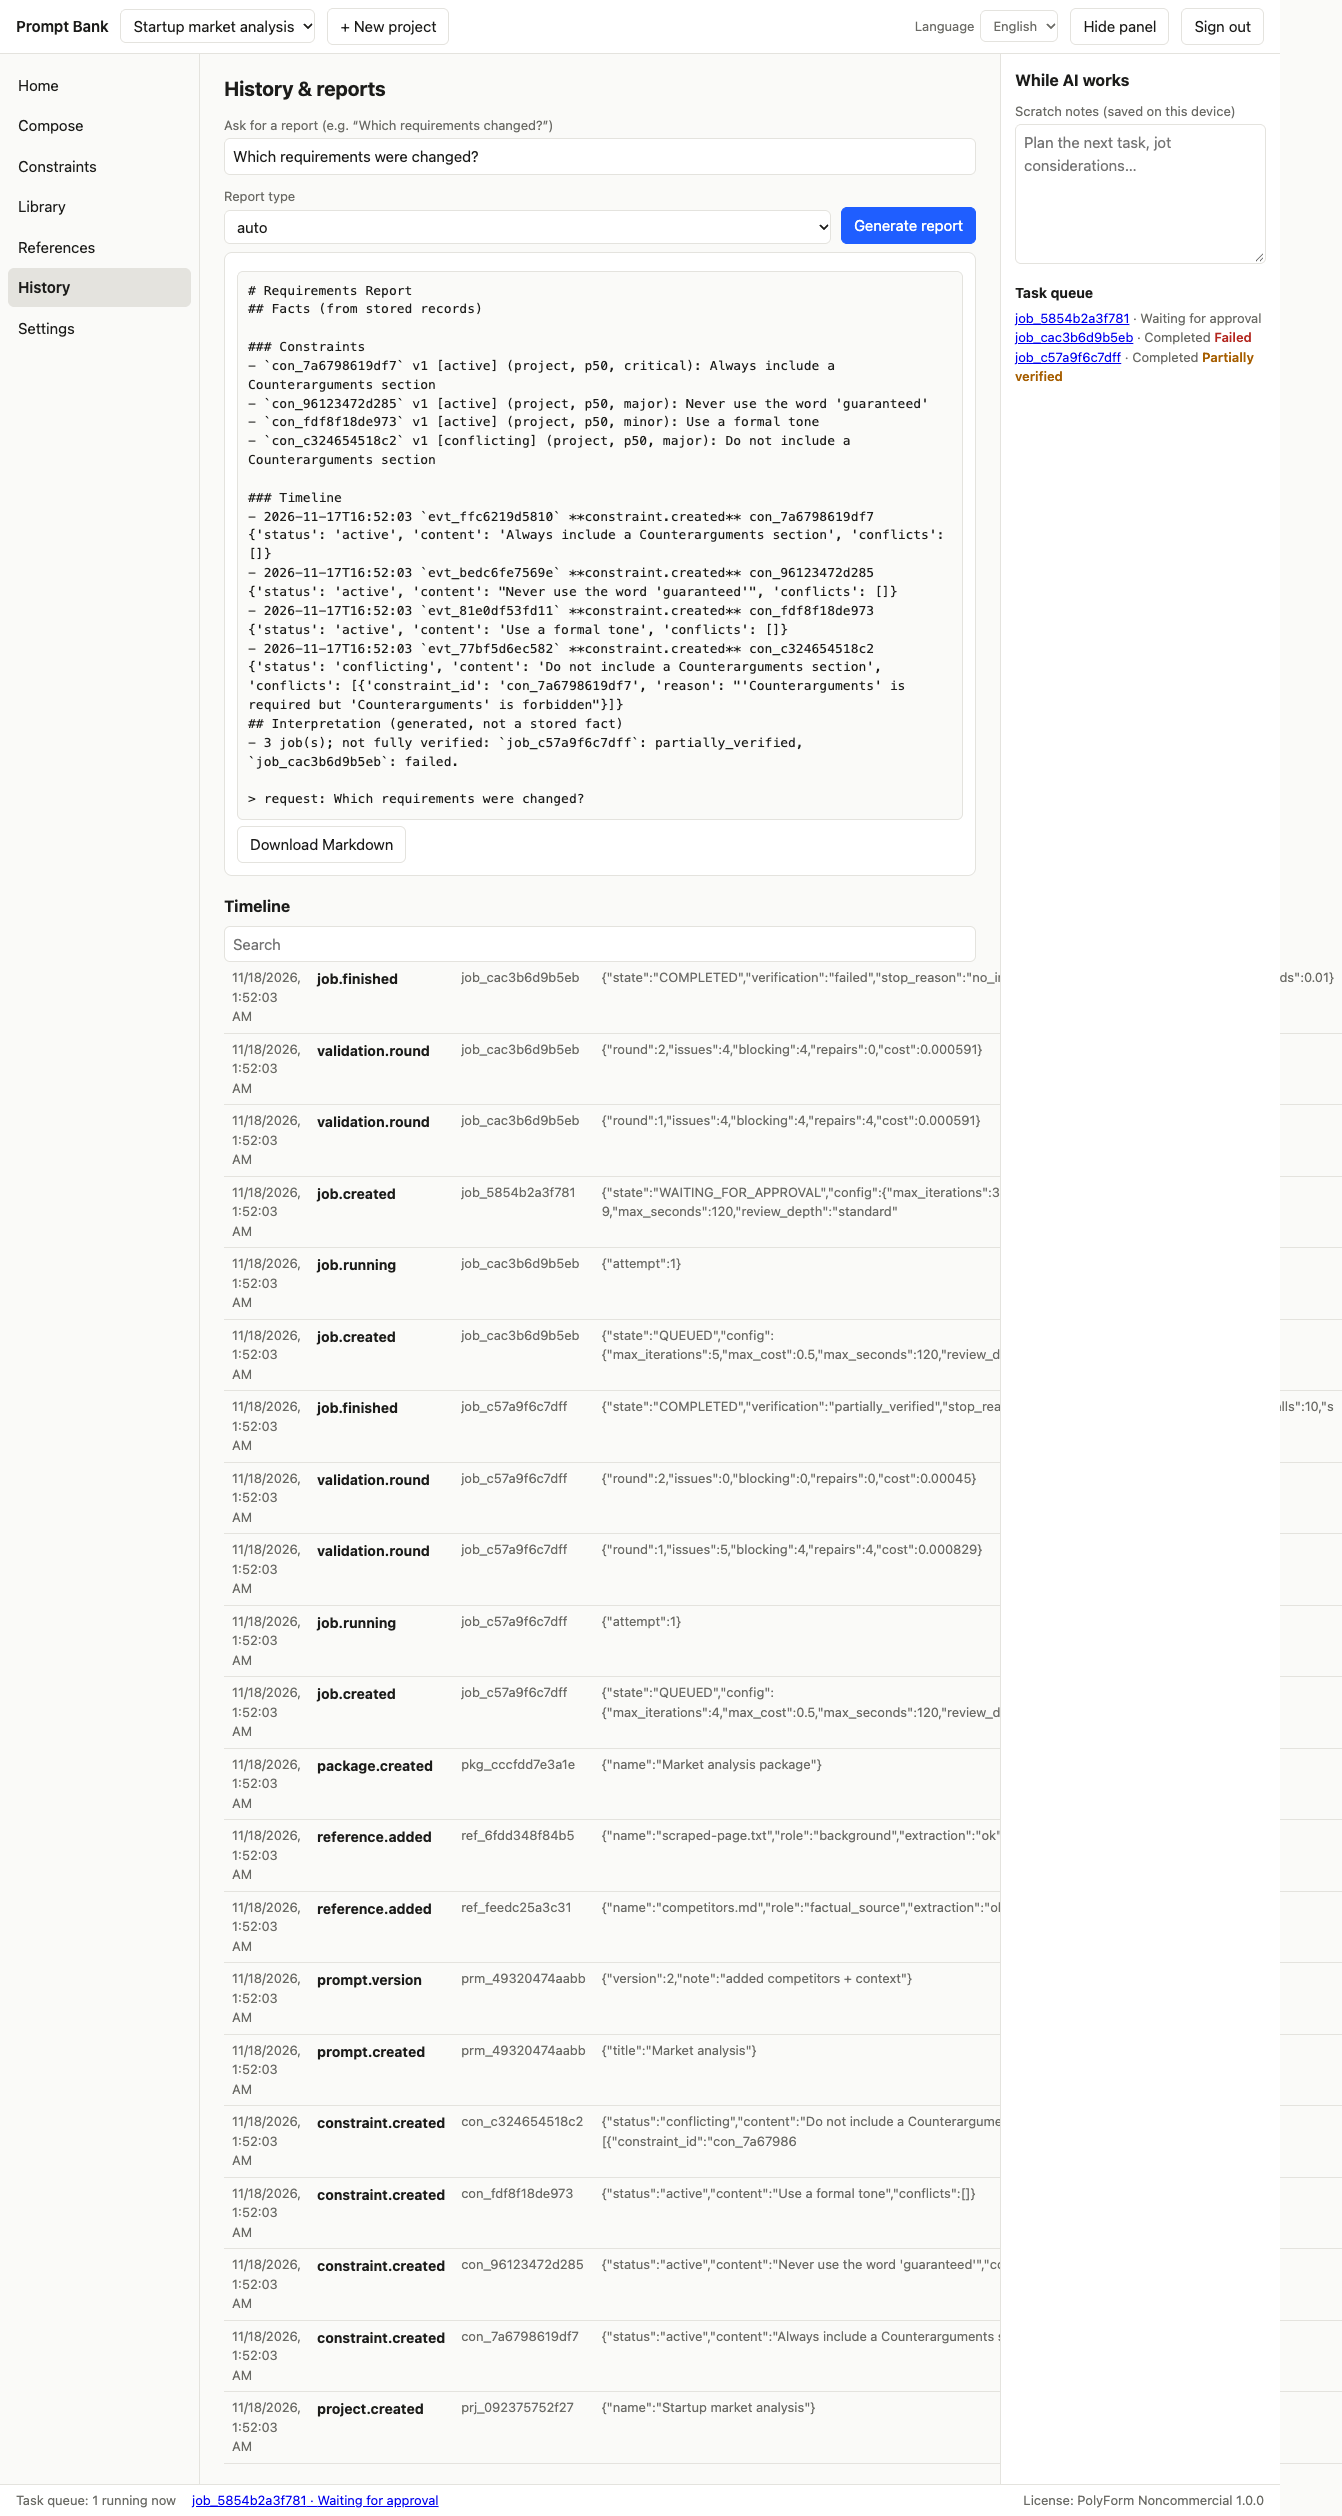
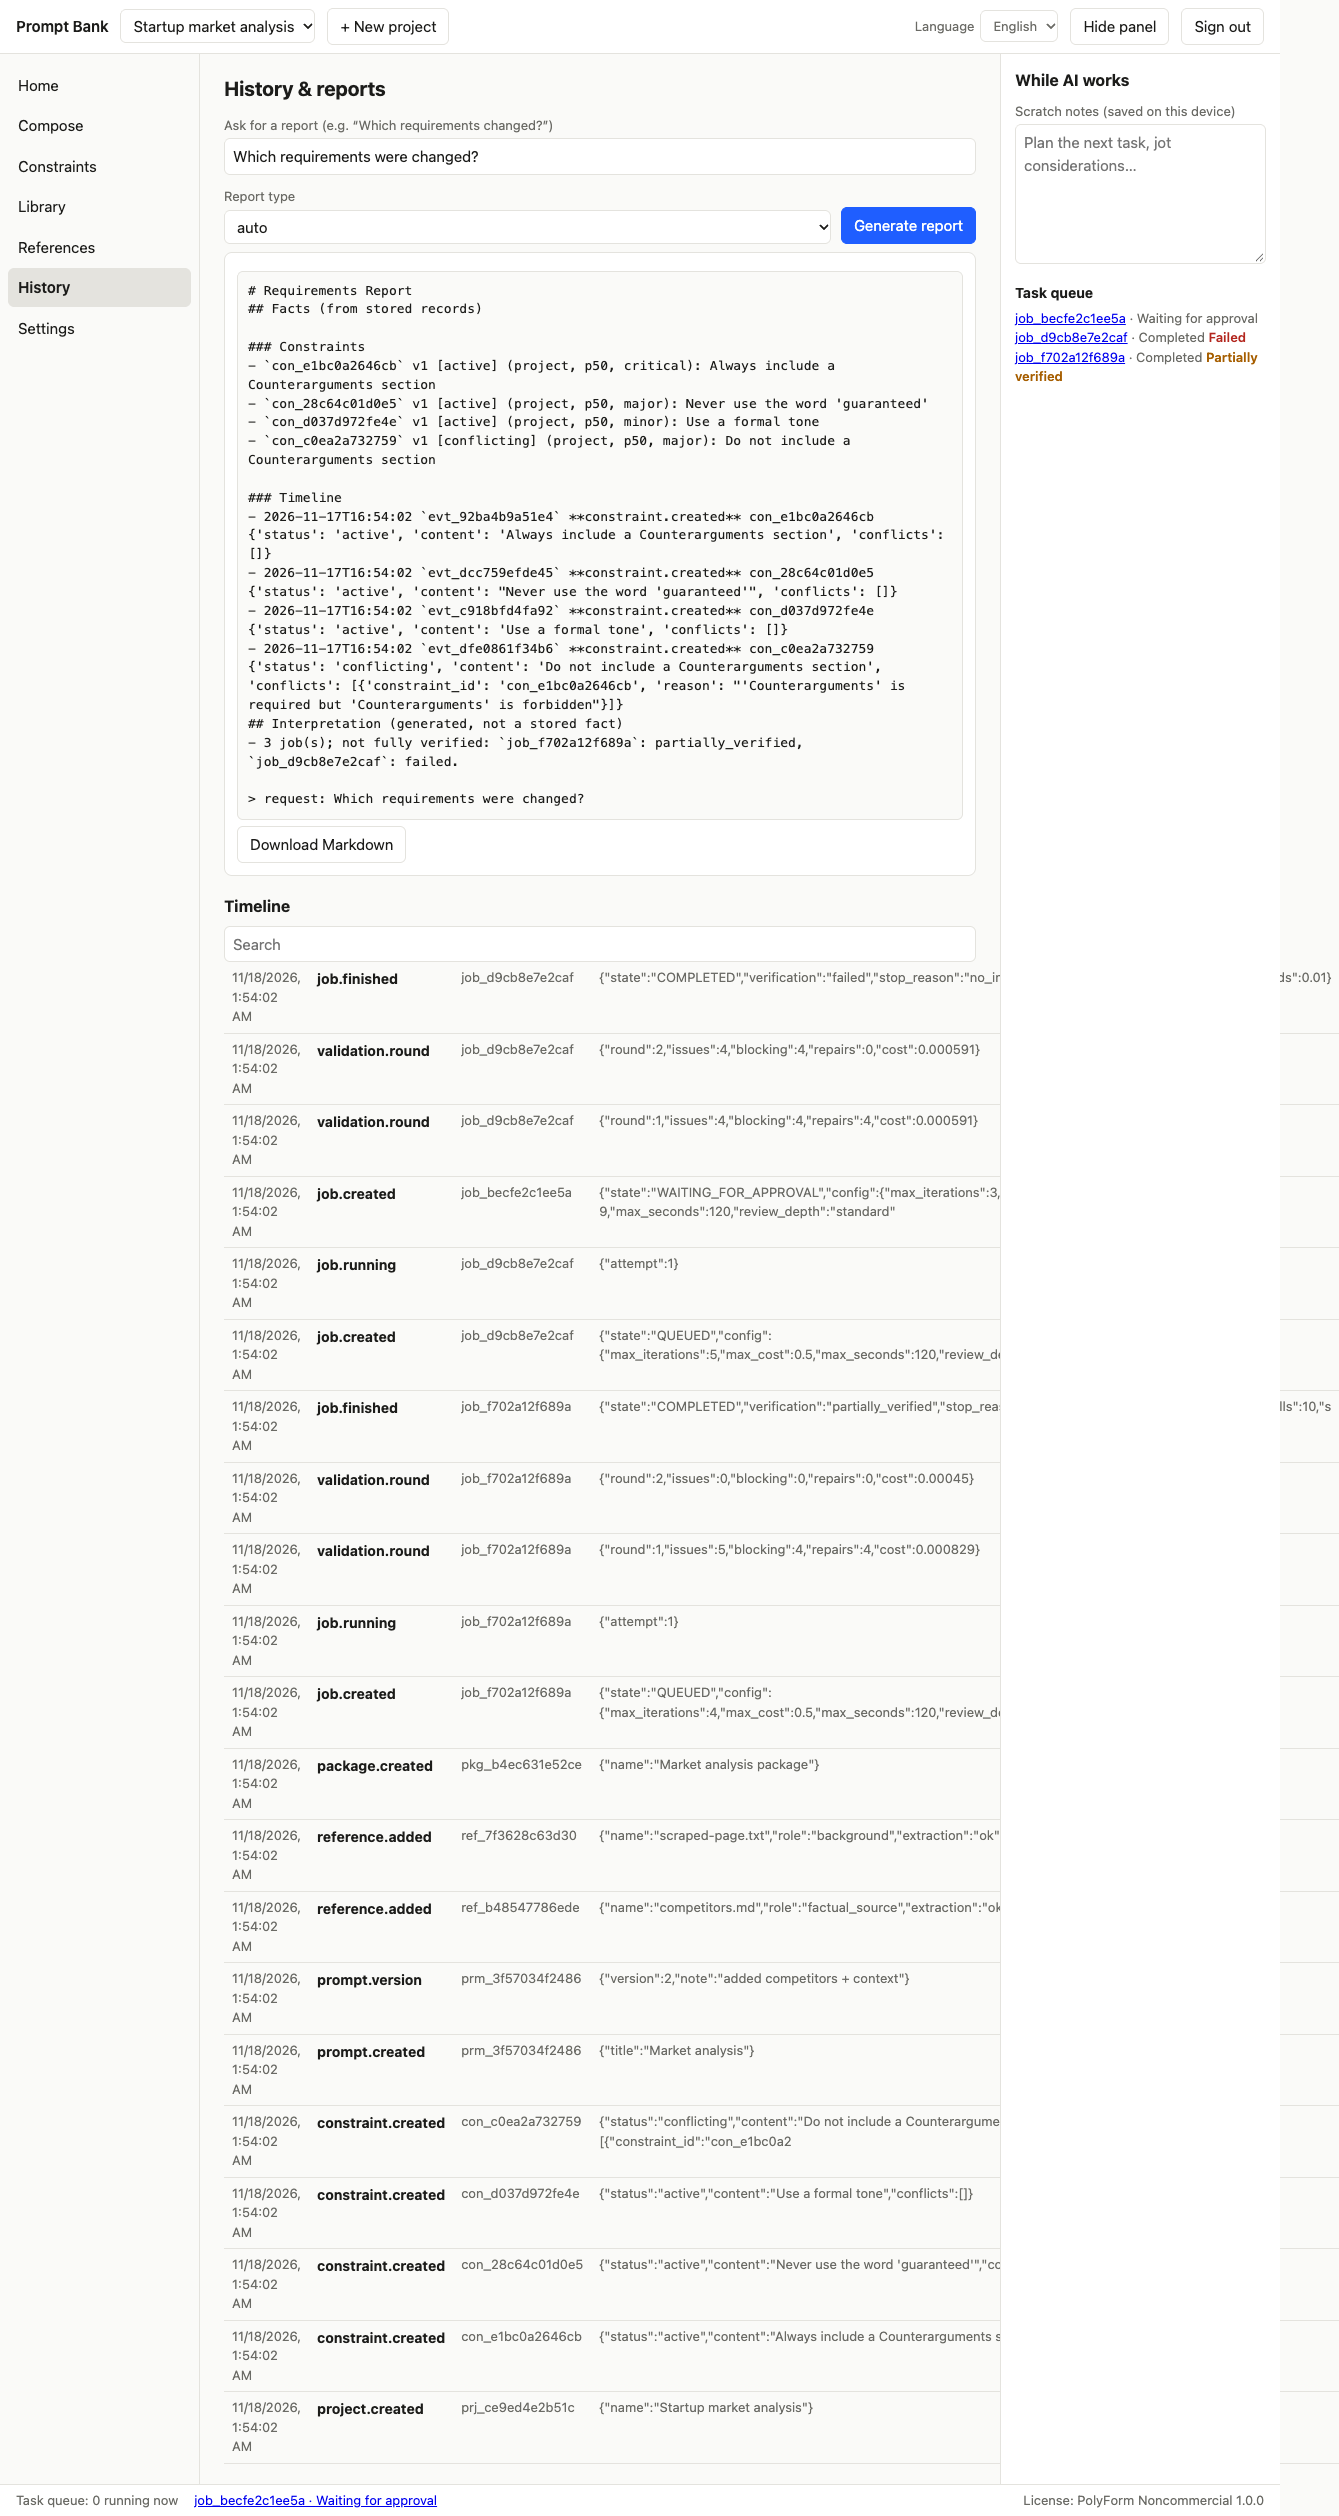
Fix Disable/Enable button labels; keep approval-waiting jobs out of 'Running now'; refresh screenshots

diff --git a/packages/shared/src/i18n.ts b/packages/shared/src/i18n.ts
@@ -8,7 +8,7 @@ const en = {
   home: "Home", recentTasks: "Recent tasks", running: "Running now", savedPackages: "Task packages", recentPrompts: "Recent prompts", quickActions: "Quick actions",
   composeTitle: "Prompt composer", intent: "Describe the task in plain language", buildPrompt: "Draft structured prompt", questions: "Questions to clarify", suggestedRefs: "Reference ideas (nothing is fetched or invented)",
   sec_objective: "Objective", sec_context: "Context", sec_instructions: "Instructions", sec_constraints: "Constraints", sec_output_format: "Output format", sec_references: "References", sec_evaluation_criteria: "Evaluation criteria",
-  title: "Title", structured: "Structured", compiled: "Compiled", savePrompt: "Save prompt", promptSaved: "Prompt saved", model: "Model", depth: "Validation depth", depth_quick: "Quick", depth_standard: "Standard", depth_deep: "Deep",
+  title: "Title", disable: "Disable", enable: "Enable", structured: "Structured", compiled: "Compiled", savePrompt: "Save prompt", promptSaved: "Prompt saved", model: "Model", depth: "Validation depth", depth_quick: "Quick", depth_standard: "Standard", depth_deep: "Deep",
   maxIter: "Max rounds", maxCost: "Max cost (USD)", maxSeconds: "Max seconds", reviewer: "Independent reviewer model (optional)", attachRefs: "Attach references", activeConstraints: "Active constraints apply automatically",
   estimate: "Estimate", estCost: "Estimated cost", estTime: "Estimated time", unavailable: "unavailable", costBasis: "Basis", mockNotice: "Mock model: offline simulation, not a real AI. Findings are heuristics.", externalNotice: "Selecting a non-mock model sends your prompt and references to that provider. Enable it in Settings first.",
   execute: "Execute", validation: "Recursive validation", stage: "Current stage", elapsed: "Elapsed", recorded: "Recorded cost", budgetLeft: "Budget left", calls: "API calls", retries: "Retries", rounds: "Rounds", costIncomplete: "(incomplete: some calls had no price)", usageEstimated: "token counts are estimated, not provider-reported",
@@ -42,7 +42,7 @@ const ko: Record<Key, string> = {
   home: "홈", recentTasks: "최근 작업", running: "실행 중", savedPackages: "작업 패키지", recentPrompts: "최근 프롬프트", quickActions: "빠른 실행",
   composeTitle: "프롬프트 작성기", intent: "하려는 일을 자연어로 설명하세요", buildPrompt: "구조화된 프롬프트 초안", questions: "확인이 필요한 질문", suggestedRefs: "참고자료 아이디어 (가져오거나 지어내지 않습니다)",
   sec_objective: "목표", sec_context: "맥락", sec_instructions: "지시사항", sec_constraints: "제약", sec_output_format: "출력 형식", sec_references: "참고자료", sec_evaluation_criteria: "평가 기준",
-  title: "제목", structured: "구조 편집", compiled: "컴파일 결과", savePrompt: "프롬프트 저장", promptSaved: "프롬프트를 저장했습니다", model: "모델", depth: "검증 깊이", depth_quick: "빠르게", depth_standard: "표준", depth_deep: "깊게",
+  title: "제목", disable: "비활성화", enable: "활성화", structured: "구조 편집", compiled: "컴파일 결과", savePrompt: "프롬프트 저장", promptSaved: "프롬프트를 저장했습니다", model: "모델", depth: "검증 깊이", depth_quick: "빠르게", depth_standard: "표준", depth_deep: "깊게",
   maxIter: "최대 라운드", maxCost: "최대 비용 (USD)", maxSeconds: "최대 시간(초)", reviewer: "독립 검토 모델 (선택)", attachRefs: "참고자료 첨부", activeConstraints: "활성 제약은 자동으로 적용됩니다",
   estimate: "예상", estCost: "예상 비용", estTime: "예상 시간", unavailable: "알 수 없음", costBasis: "근거", mockNotice: "모의(mock) 모델: 오프라인 시뮬레이션이며 실제 AI가 아닙니다. 결과는 휴리스틱입니다.", externalNotice: "mock이 아닌 모델을 고르면 프롬프트와 참고자료가 해당 제공자에게 전송됩니다. 먼저 설정에서 허용하세요.",
   execute: "실행", validation: "재귀 검증", stage: "현재 단계", elapsed: "경과 시간", recorded: "기록된 비용", budgetLeft: "남은 예산", calls: "API 호출", retries: "재시도", rounds: "라운드", costIncomplete: "(불완전: 가격 정보가 없는 호출 포함)", usageEstimated: "토큰 수는 제공자 보고값이 아닌 추정치입니다",

diff --git a/apps/web/components/views.tsx b/apps/web/components/views.tsx
@@ -41,7 +41,7 @@ export function Home({ jobs }: { jobs: any[] }) {
   const { t, api, pid, open, setJobId } = useC();
   const [pk] = useLoad(() => api.packages(pid), [pid], [] as any[]);
   const [pr] = useLoad(() => api.prompts(pid), [pid], [] as any[]);
-  const run = jobs.filter((j) => !isTerminal(j.state));
+  const run = jobs.filter((j) => j.state === "QUEUED" || j.state === "RUNNING");
   const J = ({ j }: any) => <tr><td><a href="#" onClick={(e) => { e.preventDefault(); setJobId(j.id); open("job"); }}>{j.id}</a></td><td>{t("state_" + j.state)}</td><td><VStatus v={j.verification_status} /></td><td>{fmtCost(j.usage?.cost, t("unavailable"))}</td></tr>;
   return (
     <>
@@ -176,8 +176,8 @@ export function Constraints() {
           <div className="mute"><span className={`tag`}>{t("st_" + c.status)}</span><span className="tag">{t("scope_" + c.scope)}</span><span className="tag">P{c.priority}</span><span className="tag">{t("sev_" + c.severity)}</span><span className="tag">{t("ct_" + c.check.type)}{c.check.text || c.check.name ? `: ${c.check.text || c.check.name}` : ""}</span><span className="tag">v{c.version}</span>{over.has(c.id) && <span className="tag">{t("overridden")}</span>}</div>
           <p>
             {c.status === "conflicting" && <><span className="err">{t("conflictFound")}</span><br /><button onClick={() => act(api.post(`/constraints/${c.id}/resolve`, { action: "replace_existing" }))}>{t("resolveReplace")}</button> <button onClick={() => act(api.post(`/constraints/${c.id}/resolve`, { action: "keep_existing" }))}>{t("resolveKeep")}</button> <button onClick={() => act(api.post(`/constraints/${c.id}/resolve`, { action: "keep_both_priority" }))}>{t("resolveBoth")}</button> </>}
-            {c.status === "active" && <button onClick={() => act(api.patch(`/constraints/${c.id}`, { status: "disabled", reason: "disabled by user" }))}>{t("st_disabled")}</button>}
-            {c.status === "disabled" && <button onClick={() => act(api.patch(`/constraints/${c.id}`, { status: "active", reason: "re-enabled" }))}>{t("st_active")}</button>}{" "}
+            {c.status === "active" && <button onClick={() => act(api.patch(`/constraints/${c.id}`, { status: "disabled", reason: "disabled by user" }))}>{t("disable")}</button>}
+            {c.status === "disabled" && <button onClick={() => act(api.patch(`/constraints/${c.id}`, { status: "active", reason: "re-enabled" }))}>{t("enable")}</button>}{" "}
             <button onClick={async () => setVers({ id: c.id, list: await api.get(`/constraints/${c.id}/versions`) })}>{t("versions")}</button>
           </p>
           {vers?.id === c.id && <table><tbody>{vers.list.map((v: any) => <tr key={v.version}><td>v{v.version}</td><td>{v.snapshot.content}</td><td>{t("st_" + v.snapshot.status)}</td><td className="mute">{v.reason}</td></tr>)}</tbody></table>}

diff --git a/apps/web/components/App.tsx b/apps/web/components/App.tsx
@@ -52,7 +52,8 @@ export default function App() {
   if (!token) return <Login api={api} t={t} langSel={langSel} onToken={(tk: string) => { ls.set("raw.token", tk); setToken(tk); }} />;
 
   const open = (v: string, extra?: any) => { setSeed(extra ?? null); setView(v); window.scrollTo(0, 0); };
-  const running = jobs.filter((j) => !isTerminal(j.state));
+  const running = jobs.filter((j) => j.state === "QUEUED" || j.state === "RUNNING");
+  const pending = jobs.filter((j) => !isTerminal(j.state));
   const ctx = { api, lang, t, pid, me, refreshMe, open, jobId, setJobId, seed };
   return (
     <C.Provider value={ctx}>
@@ -76,7 +77,7 @@ export default function App() {
         {panel && <aside className="panel" aria-label={t("whileWorks")}><Queue jobs={jobs} /></aside>}
         <footer className="queue">
           <span>{t("queue")}: {running.length} {t("running").toLowerCase()}</span>
-          {running.slice(0, 3).map((j) => <a key={j.id} href="#" onClick={(e) => { e.preventDefault(); setJobId(j.id); open("job"); }}>{j.id} · {t("state_" + j.state)}{j.stage ? ` · ${j.stage}` : ""}</a>)}
+          {pending.slice(0, 3).map((j) => <a key={j.id} href="#" onClick={(e) => { e.preventDefault(); setJobId(j.id); open("job"); }}>{j.id} · {t("state_" + j.state)}{j.stage ? ` · ${j.stage}` : ""}</a>)}
           <span className="sp" style={{ flex: 1 }} />
           <span title={t("licenseText")}>{t("license")}: PolyForm Noncommercial 1.0.0</span>
         </footer>
